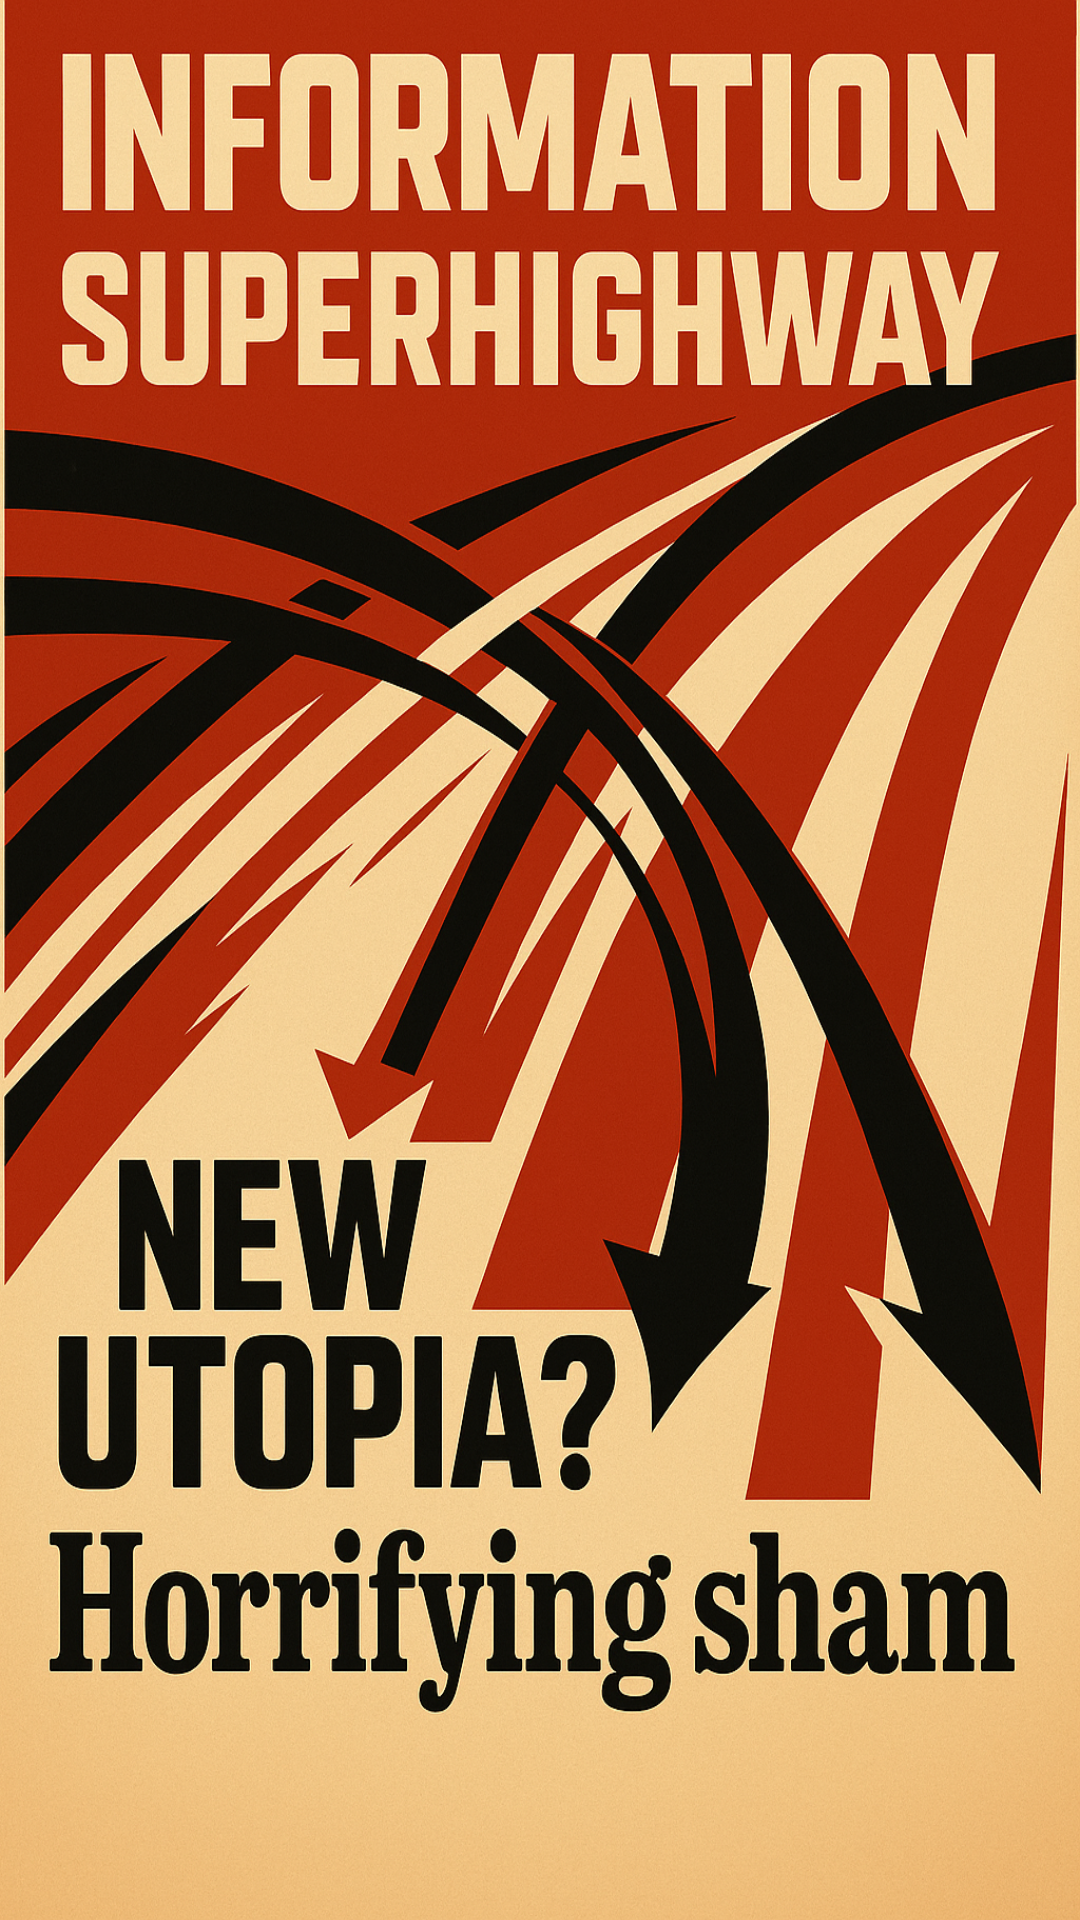
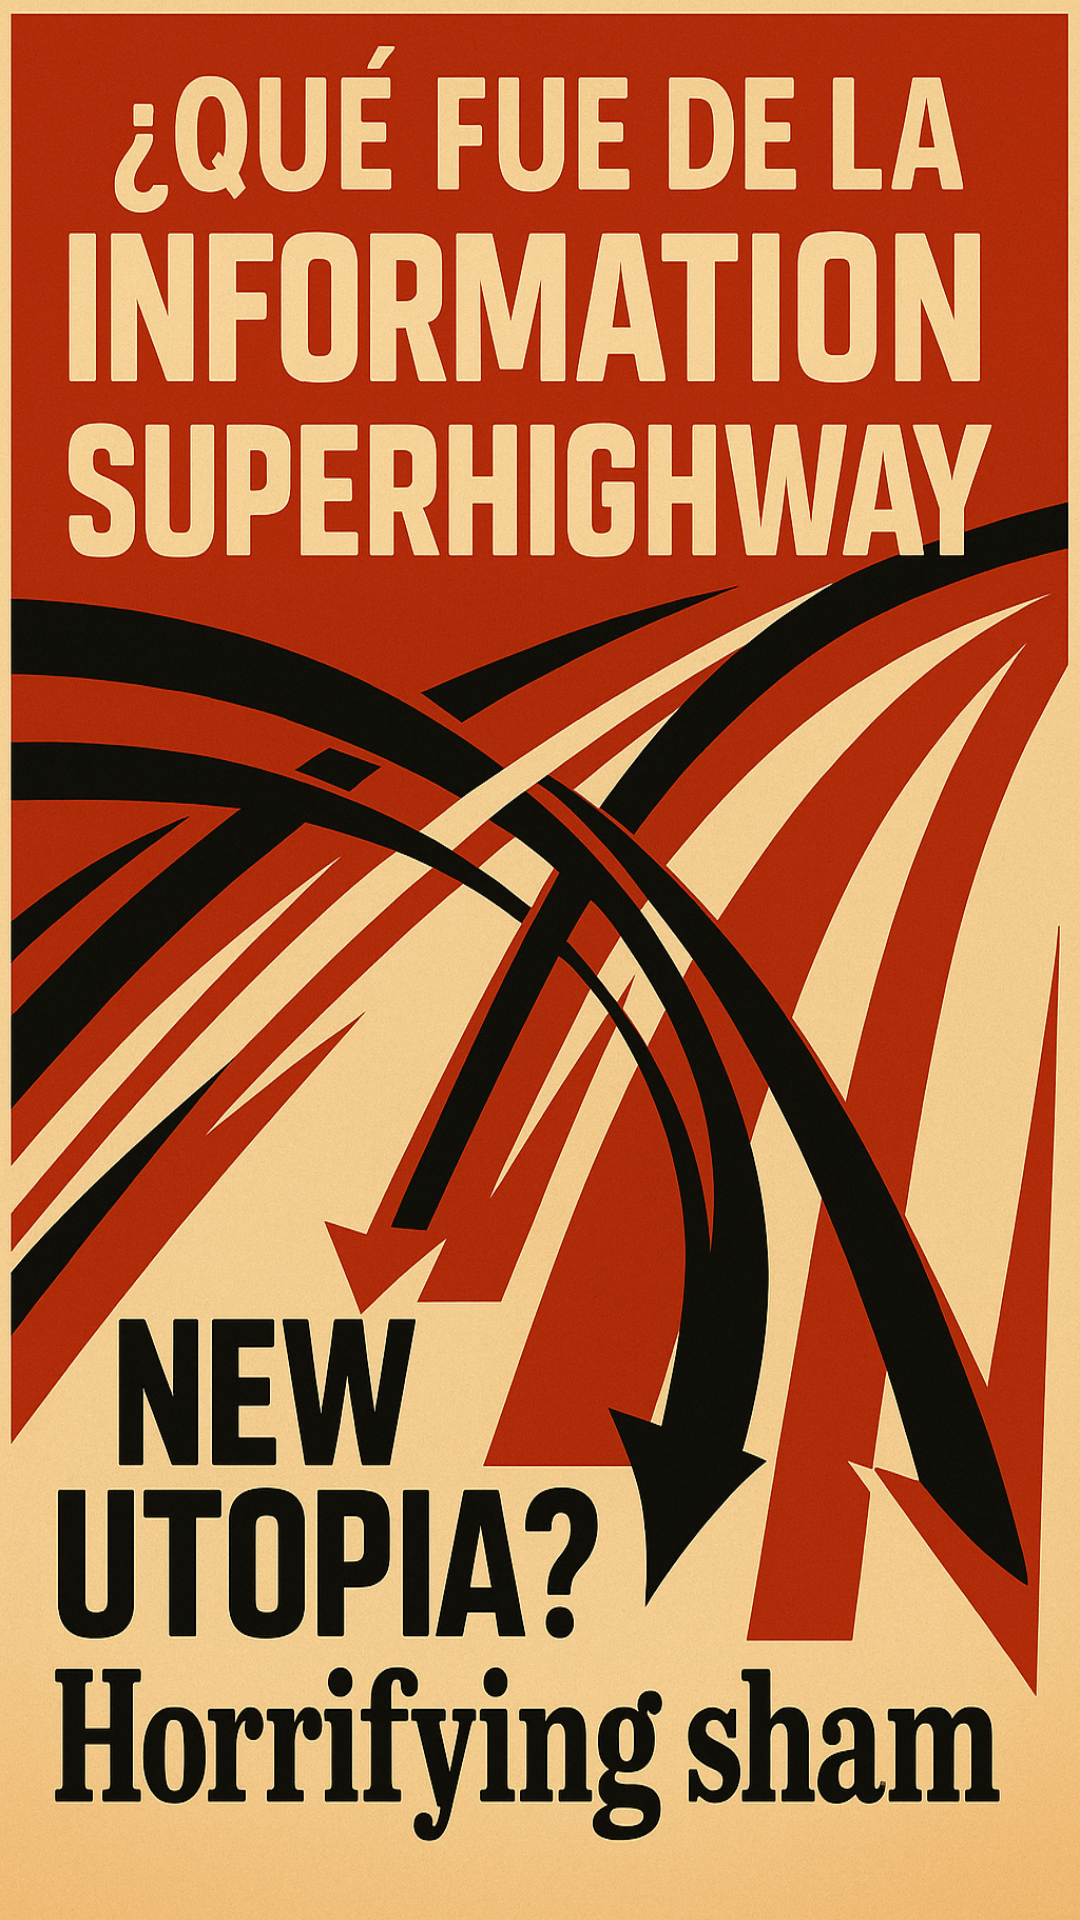
Feat: change cover image

diff --git a/src/routes/blog/internet-capital/+page.svelte b/src/routes/blog/internet-capital/+page.svelte
@@ -36,7 +36,7 @@
 				<div class="md:hidden absolute inset-0 flex px-4 z-20">
 						<h1 class="text-4xl font-extrabold leading-snug tracking-tight  text-white/90 drop-shadow-md pt-6 mt-55">
 							¿Qué fue de la
-							<span class="block text-primary-400 text-5xl">Information Superhighway?</span>
+							<span class="block text-yellow-400 text-5xl">Information Superhighway?</span>
 						</h1>
 				</div>
 
